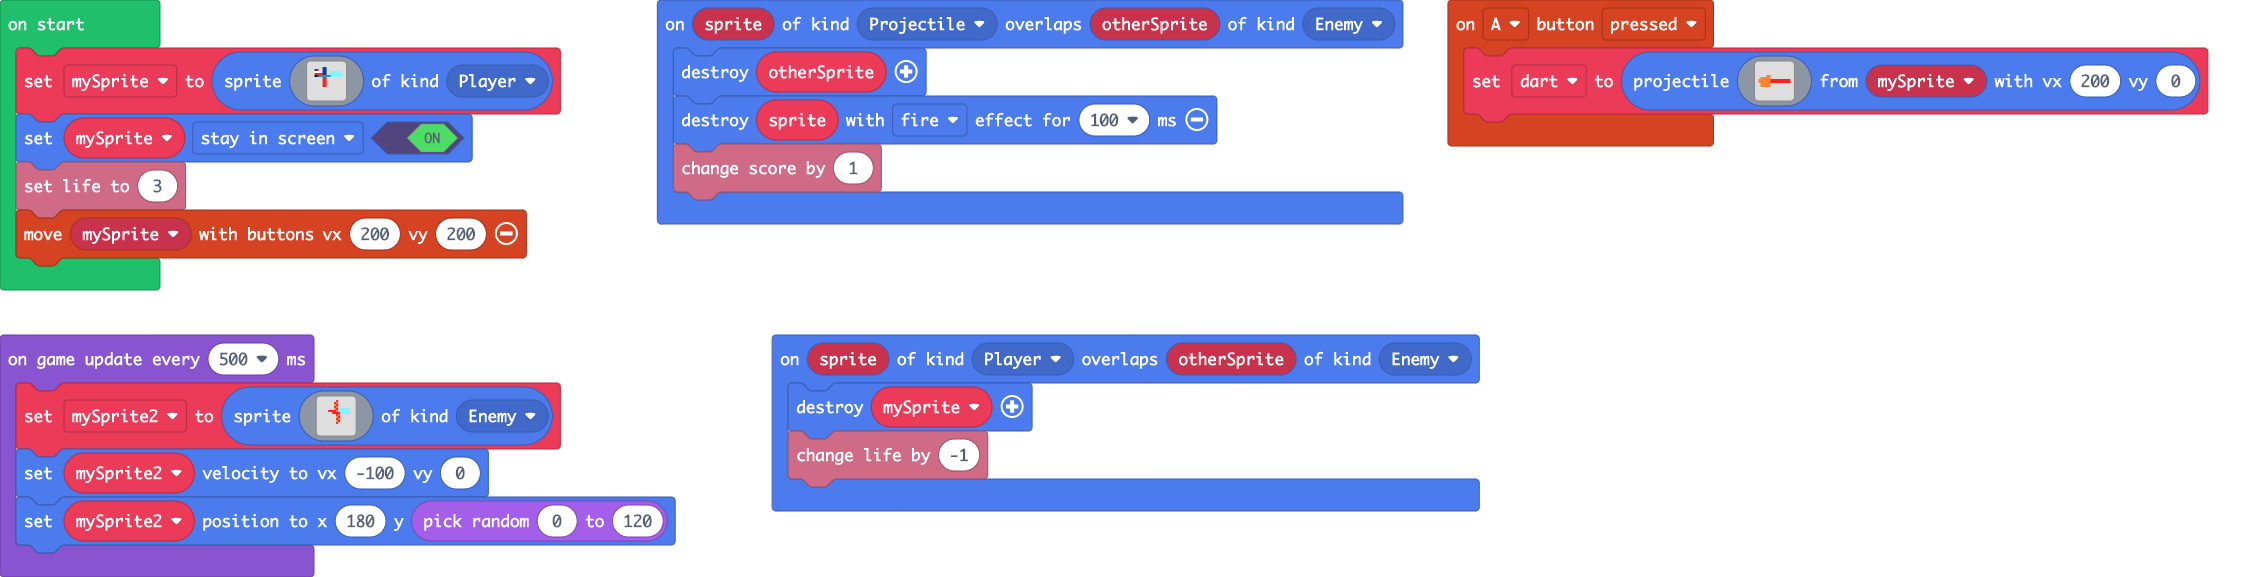
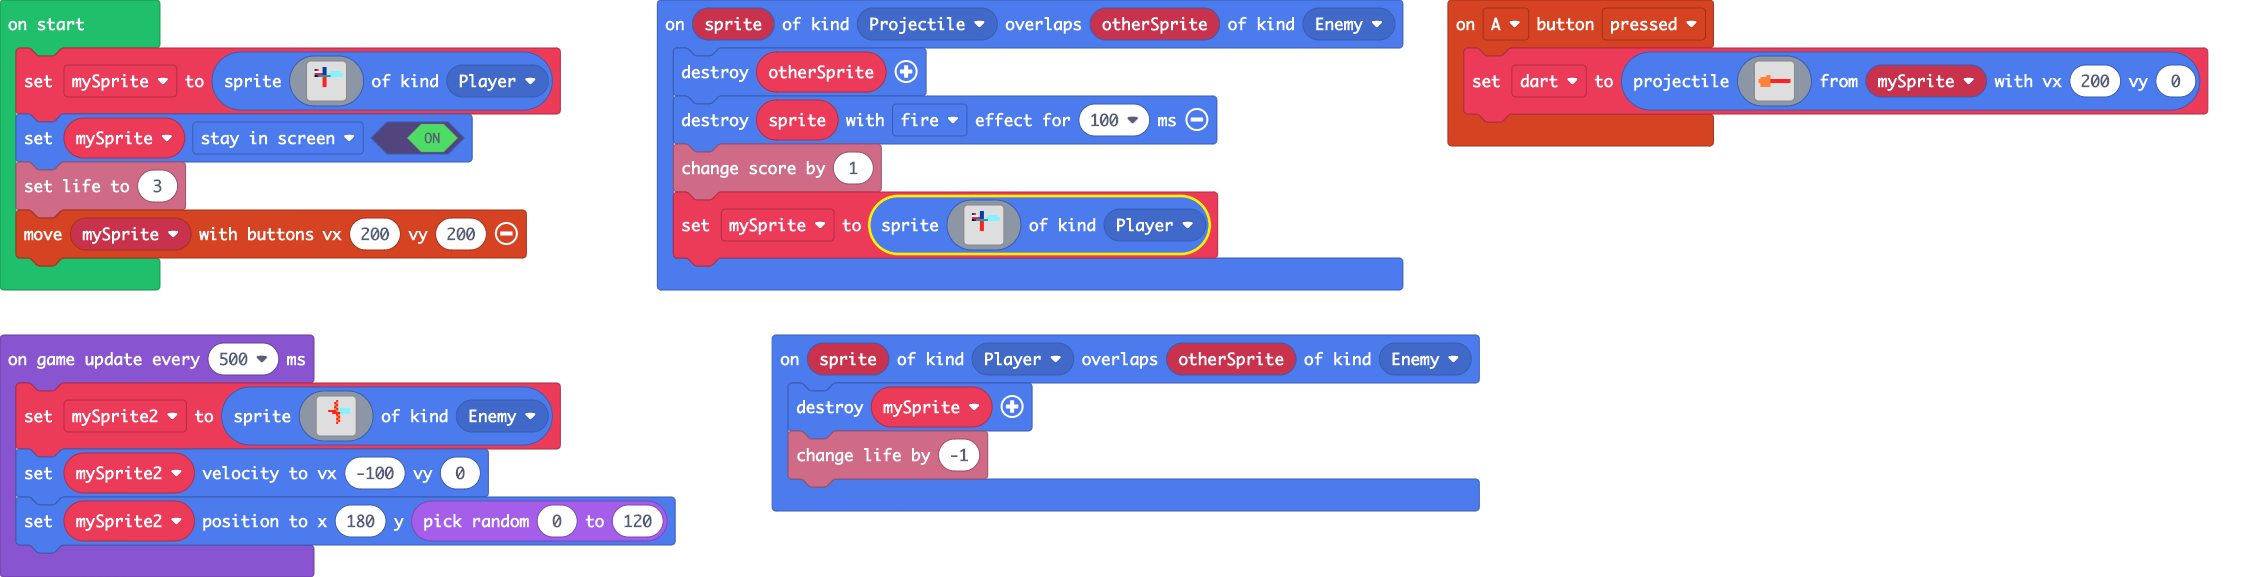
Update pxt.json, main.blocks, main.ts

Changed region(s): [[0.2788, 0.312, 0.6195, 0.5303]]

diff --git a/main.ts b/main.ts
@@ -1,76 +1,92 @@
-controller.A.onEvent(ControllerButtonEvent.Pressed, function on_a_pressed() {
-    
+controller.A.onEvent(ControllerButtonEvent.Pressed, function () {
     dart = sprites.createProjectileFromSprite(img`
-            . . . . . . . . . . . . . . . . 
-                    . . . . . . . . . . . . . . . . 
-                    . . . . . . . . . . . . . . . . 
-                    . . . . . . . . . . . . . . . . 
-                    . . . . . . . . . . . . . . . . 
-                    . . . . 4 4 . . . . . . . . . . 
-                    . 4 4 4 4 4 . . . . . . . . . . 
-                    4 4 4 4 4 4 2 2 2 2 2 2 2 2 2 2 
-                    4 4 4 4 4 4 2 2 2 2 2 2 2 2 2 2 
-                    . 4 4 4 4 4 . . . . . . . . . . 
-                    . 4 4 4 4 4 . . . . . . . . . . 
-                    . . . . . . . . . . . . . . . . 
-                    . . . . . . . . . . . . . . . . 
-                    . . . . . . . . . . . . . . . . 
-                    . . . . . . . . . . . . . . . . 
-                    . . . . . . . . . . . . . . . .
+        . . . . . . . . . . . . . . . . 
+        . . . . . . . . . . . . . . . . 
+        . . . . . . . . . . . . . . . . 
+        . . . . . . . . . . . . . . . . 
+        . . . . . . . . . . . . . . . . 
+        . . . . 4 4 . . . . . . . . . . 
+        . 4 4 4 4 4 . . . . . . . . . . 
+        4 4 4 4 4 4 2 2 2 2 2 2 2 2 2 2 
+        4 4 4 4 4 4 2 2 2 2 2 2 2 2 2 2 
+        . 4 4 4 4 4 . . . . . . . . . . 
+        . 4 4 4 4 4 . . . . . . . . . . 
+        . . . . . . . . . . . . . . . . 
+        . . . . . . . . . . . . . . . . 
+        . . . . . . . . . . . . . . . . 
+        . . . . . . . . . . . . . . . . 
+        . . . . . . . . . . . . . . . . 
         `, mySprite, 200, 0)
 })
-sprites.onOverlap(SpriteKind.Projectile, SpriteKind.Enemy, function on_on_overlap(sprite: Sprite, otherSprite: Sprite) {
+sprites.onOverlap(SpriteKind.Projectile, SpriteKind.Enemy, function (sprite, otherSprite) {
     otherSprite.destroy()
     sprite.destroy(effects.fire, 100)
     info.changeScoreBy(1)
+    mySprite = sprites.create(img`
+        . . . . . . . . . . . . . . . . 
+        . . . . . . 8 8 . . . . . . . . 
+        . . 8 2 . . 8 8 . . . . . . . . 
+        . . 1 1 1 . 8 8 . . 9 9 9 9 9 . 
+        . . 2 2 2 2 8 8 . 9 9 9 9 9 9 9 
+        . . f 8 6 6 6 6 6 6 9 9 9 9 9 9 
+        . . . . . . 2 2 . . . . . . . . 
+        . . . . . . 2 2 . . . . . . . . 
+        . . . . . . 2 2 . . . . . . . . 
+        . . . . . . 2 2 . . . . . . . . 
+        . . . . . . 2 2 . . . . . . . . 
+        . . . . . . . . . . . . . . . . 
+        . . . . . . . . . . . . . . . . 
+        . . . . . . . . . . . . . . . . 
+        . . . . . . . . . . . . . . . . 
+        . . . . . . . . . . . . . . . . 
+        `, SpriteKind.Player)
 })
-sprites.onOverlap(SpriteKind.Player, SpriteKind.Enemy, function on_on_overlap2(sprite: Sprite, otherSprite: Sprite) {
+sprites.onOverlap(SpriteKind.Player, SpriteKind.Enemy, function (sprite, otherSprite) {
     mySprite.destroy()
     info.changeLifeBy(-1)
 })
-let mySprite2 : Sprite = null
-let dart : Sprite = null
-let mySprite : Sprite = null
+let mySprite2: Sprite = null
+let dart: Sprite = null
+let mySprite: Sprite = null
 mySprite = sprites.create(img`
-        . . . . . . . . . . . . . . . . 
-            . . . . . . 8 8 . . . . . . . . 
-            . . 8 2 . . 8 8 . . . . . . . . 
-            . . 1 1 1 . 8 8 . . 9 9 9 9 9 . 
-            . . 2 2 2 2 8 8 . 9 9 9 9 9 9 9 
-            . . f 8 6 6 6 6 6 6 9 9 9 9 9 9 
-            . . . . . . 2 2 . . . . . . . . 
-            . . . . . . 2 2 . . . . . . . . 
-            . . . . . . 2 2 . . . . . . . . 
-            . . . . . . 2 2 . . . . . . . . 
-            . . . . . . 2 2 . . . . . . . . 
-            . . . . . . . . . . . . . . . . 
-            . . . . . . . . . . . . . . . . 
-            . . . . . . . . . . . . . . . . 
-            . . . . . . . . . . . . . . . . 
-            . . . . . . . . . . . . . . . .
+    . . . . . . . . . . . . . . . . 
+    . . . . . . 8 8 . . . . . . . . 
+    . . 8 2 . . 8 8 . . . . . . . . 
+    . . 1 1 1 . 8 8 . . 9 9 9 9 9 . 
+    . . 2 2 2 2 8 8 . 9 9 9 9 9 9 9 
+    . . f 8 6 6 6 6 6 6 9 9 9 9 9 9 
+    . . . . . . 2 2 . . . . . . . . 
+    . . . . . . 2 2 . . . . . . . . 
+    . . . . . . 2 2 . . . . . . . . 
+    . . . . . . 2 2 . . . . . . . . 
+    . . . . . . 2 2 . . . . . . . . 
+    . . . . . . . . . . . . . . . . 
+    . . . . . . . . . . . . . . . . 
+    . . . . . . . . . . . . . . . . 
+    . . . . . . . . . . . . . . . . 
+    . . . . . . . . . . . . . . . . 
     `, SpriteKind.Player)
 mySprite.setFlag(SpriteFlag.StayInScreen, true)
 info.setLife(3)
 controller.moveSprite(mySprite, 200, 200)
-game.onUpdateInterval(500, function on_update_interval() {
-    
+game.onUpdateInterval(500, function () {
     mySprite2 = sprites.create(img`
-            . . . . . . . . 2 . . . . . . . 
-                    . . . . . . . 2 4 . . . . . . . 
-                    . . . . . . . 4 2 . . . . . . . 
-                    . . . . . . . 2 4 . . . . . . . 
-                    . . . . . . . 4 2 9 9 9 9 9 9 . 
-                    . . . . 2 2 2 2 4 9 9 9 9 9 9 . 
-                    . . . . . . 2 2 2 2 9 9 9 9 9 . 
-                    . . . . . . . . 2 4 . . . . . . 
-                    . . . . . . . . 4 2 . . . . . . 
-                    . . . . . . . . 2 4 . . . . . . 
-                    . . . . . . . . 4 2 . . . . . . 
-                    . . . . . . . . 2 . . . . . . . 
-                    . . . . . . . . . . . . . . . . 
-                    . . . . . . . . . . . . . . . . 
-                    . . . . . . . . . . . . . . . . 
-                    . . . . . . . . . . . . . . . .
+        . . . . . . . . 2 . . . . . . . 
+        . . . . . . . 2 4 . . . . . . . 
+        . . . . . . . 4 2 . . . . . . . 
+        . . . . . . . 2 4 . . . . . . . 
+        . . . . . . . 4 2 9 9 9 9 9 9 . 
+        . . . . 2 2 2 2 4 9 9 9 9 9 9 . 
+        . . . . . . 2 2 2 2 9 9 9 9 9 . 
+        . . . . . . . . 2 4 . . . . . . 
+        . . . . . . . . 4 2 . . . . . . 
+        . . . . . . . . 2 4 . . . . . . 
+        . . . . . . . . 4 2 . . . . . . 
+        . . . . . . . . 2 . . . . . . . 
+        . . . . . . . . . . . . . . . . 
+        . . . . . . . . . . . . . . . . 
+        . . . . . . . . . . . . . . . . 
+        . . . . . . . . . . . . . . . . 
         `, SpriteKind.Enemy)
     mySprite2.setVelocity(-100, 0)
     mySprite2.setPosition(180, randint(0, 120))
